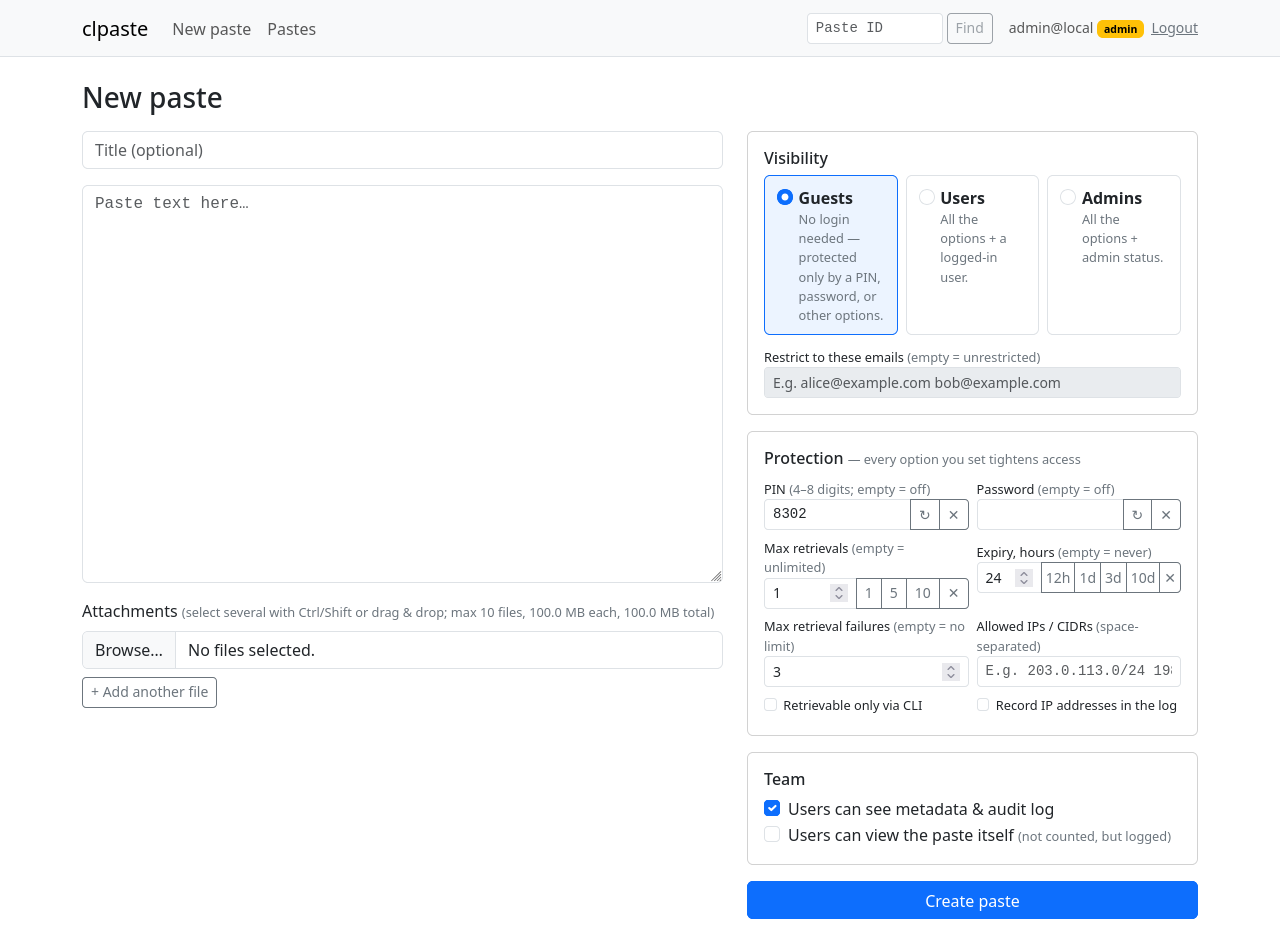
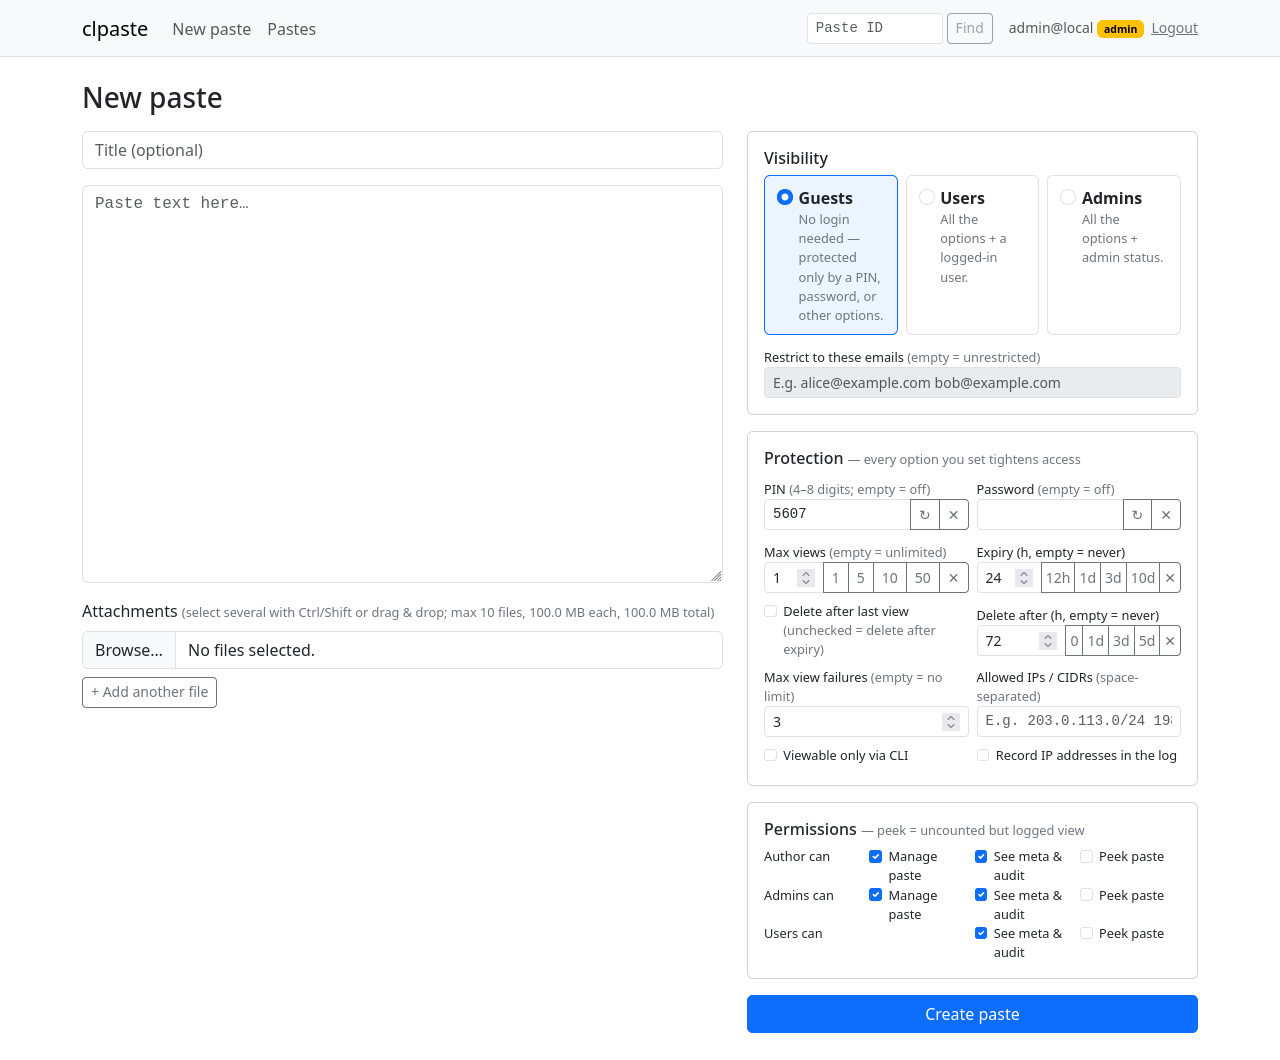
Improvements

diff --git a/templates/index.html b/templates/index.html
@@ -50,7 +50,7 @@
         </div>
       </div>
       <div class="mt-2" id="emails_row">
-        <label class="form-label form-text-sm mb-0" for="emails">Restrict to these emails <span class="text-secondary">(empty = unrestricted)</span></label>
+        <label class="form-label form-text-sm mb-0" for="emails">Restrict to these emails <span class="text-secondary">(empty = unrestricted{% if email_domain %}, no @ = @{{ email_domain }}{% endif %})</span></label>
         <input class="form-control form-control-sm" name="emails" id="emails" value="{{ f.emails }}" placeholder="E.g. alice@example.com bob@example.com">
       </div>
     </div></div>
@@ -151,35 +151,44 @@
       <h2 class="h6">Permissions <span class="text-secondary form-text-sm fw-normal">— peek = uncounted but logged view</span></h2>
       <div class="row g-1 form-text-sm">
         <div class="col-3">Author can</div>
-        <div class="col-5"><div class="form-check mb-0">
-          <input class="form-check-input" type="checkbox" name="author_meta" id="author_meta" {% if f.author_meta %}checked{% endif %}>
-          <label class="form-check-label" for="author_meta" title="Metadata and audit log on the paste detail page">view metadata</label>
+        <div class="col-3"><div class="form-check mb-0">
+          <input class="form-check-input" type="checkbox" name="author_manage" id="author_manage" {% if f.author_manage %}checked{% endif %}>
+          <label class="form-check-label" for="author_manage" title="Expire and delete the paste">Manage paste</label>
         </div></div>
-        <div class="col-4"><div class="form-check mb-0">
+        <div class="col-3"><div class="form-check mb-0">
+          <input class="form-check-input" type="checkbox" name="author_meta" id="author_meta" {% if f.author_meta %}checked{% endif %}>
+          <label class="form-check-label" for="author_meta" title="Metadata and audit log on the paste detail page">See meta &amp; audit</label>
+        </div></div>
+        <div class="col-3"><div class="form-check mb-0">
           <input class="form-check-input" type="checkbox" name="author_view" id="author_view" {% if f.author_view %}checked{% endif %}>
-          <label class="form-check-label" for="author_view">peek paste</label>
+          <label class="form-check-label" for="author_view">Peek paste</label>
         </div></div>
       </div>
       <div class="row g-1 form-text-sm">
         <div class="col-3">Admins can</div>
-        <div class="col-5"><div class="form-check mb-0">
-          <input class="form-check-input" type="checkbox" name="admin_meta" id="admin_meta" {% if f.admin_meta %}checked{% endif %}>
-          <label class="form-check-label" for="admin_meta" title="Metadata and audit log on the paste detail page">view metadata</label>
+        <div class="col-3"><div class="form-check mb-0">
+          <input class="form-check-input" type="checkbox" name="admin_manage" id="admin_manage" {% if f.admin_manage %}checked{% endif %}>
+          <label class="form-check-label" for="admin_manage" title="Expire and delete the paste">Manage paste</label>
         </div></div>
-        <div class="col-4"><div class="form-check mb-0">
+        <div class="col-3"><div class="form-check mb-0">
+          <input class="form-check-input" type="checkbox" name="admin_meta" id="admin_meta" {% if f.admin_meta %}checked{% endif %}>
+          <label class="form-check-label" for="admin_meta" title="Metadata and audit log on the paste detail page">See meta &amp; audit</label>
+        </div></div>
+        <div class="col-3"><div class="form-check mb-0">
           <input class="form-check-input" type="checkbox" name="admin_view" id="admin_view" {% if f.admin_view %}checked{% endif %}>
-          <label class="form-check-label" for="admin_view">peek paste</label>
+          <label class="form-check-label" for="admin_view">Peek paste</label>
         </div></div>
       </div>
       <div class="row g-1 form-text-sm">
         <div class="col-3">Users can</div>
-        <div class="col-5"><div class="form-check mb-0">
+        <div class="col-3"></div>
+        <div class="col-3"><div class="form-check mb-0">
           <input class="form-check-input" type="checkbox" name="team_meta" id="team_meta" {% if f.team_meta %}checked{% endif %}>
-          <label class="form-check-label" for="team_meta" title="Metadata and audit log on the paste detail page">view metadata</label>
+          <label class="form-check-label" for="team_meta" title="Metadata and audit log on the paste detail page">See meta &amp; audit</label>
         </div></div>
-        <div class="col-4"><div class="form-check mb-0">
+        <div class="col-3"><div class="form-check mb-0">
           <input class="form-check-input" type="checkbox" name="team_view" id="team_view" {% if f.team_view %}checked{% endif %}>
-          <label class="form-check-label" for="team_view">peek paste</label>
+          <label class="form-check-label" for="team_view">Peek paste</label>
         </div></div>
       </div>
     </div></div>

diff --git a/templates/detail.html b/templates/detail.html
@@ -10,6 +10,9 @@
     {% if can_delete %}<form class="d-inline" method="post" action="{{ delete_href }}" onsubmit="return confirm('Delete this paste permanently, including its audit log?')"><button class="btn btn-sm btn-danger">Delete</button></form>{% endif %}
   </div>
 </div>
+{% if denied %}
+<div class="alert alert-warning mt-3">Seeing this paste's metadata and audit log is not possible: the paste does not grant that to you.{% if can_view or can_expire or can_delete %} The buttons above show what you can do with it.{% endif %}</div>
+{% else %}
 <div class="row g-3">
   <div class="col-lg-5">
     <div class="card"><div class="card-header ps-1">Settings</div>
@@ -31,4 +34,5 @@
     </table></div></div>
   </div>
 </div>
+{% endif %}
 {% endblock %}

diff --git a/templates/layout.html b/templates/layout.html
@@ -49,6 +49,6 @@
     function chk(){ b.disabled = i.value.replace(/[^0-9]/g,'').length !== {{ id_digits }}; }
     i.addEventListener('input', chk); chk(); })();
 </script>
-<footer class="container text-secondary small mb-4">{{ site_name }}{% if show_version %} · clpaste {{ version }}{% endif %}</footer>
+<footer class="container text-secondary small mb-4">{{ site_name }}{% if show_version %} · <span title="build {{ git_sha }}">clpaste {{ version }}</span>{% endif %}</footer>
 </body>
 </html>

diff --git a/README.md b/README.md
@@ -21,10 +21,12 @@ admins) and **guests** (not signed in).
 * **Per-paste protection:** PIN (default on), password, max views,
   expiry time, guest/user/admin visibility with an optional email
   restriction, IP/CIDR allowlist, CLI-only, expiry after N failed attempts.
-* **Per-role permissions:** the author decides, per paste, whether the
-  author, admins and other signed-in users may see its metadata & audit
-  log, and/or peek at the content without consuming a view (logged).
-  No built-in exemptions — even admins only see what the paste grants.
+* **Per-role permissions:** the author decides, per paste, what the
+  author, admins and other signed-in users may do with it — manage it
+  (expire/delete; author and admins only), see its metadata & audit log,
+  and/or peek at the content without consuming a view (logged). No
+  built-in exemptions — even admins only get what the paste grants
+  (since 0.3.0; before that the author and admins were always exempt).
 * **Audit log** of who viewed what and when (identity from OIDC when
   available; IPs only if the author opted in). The log outlives the paste
   (until deletion, if the paste has it set).
@@ -33,8 +35,8 @@ admins) and **guests** (not signed in).
 * **Deletion** (optional): unlike expiry, removes every trace — record,
   metadata and audit log — N hours after expiry, or, anchored to views
   instead, N hours after the last counted view (0 = the moment it is
-  viewed). The author or an admin can also delete a paste at any time
-  from its settings + log page.
+  viewed). Whoever holds the paste's manage permission can also expire
+  or delete it at any time from its settings + log page.
 * **Pastes page:** users see their own and shared pastes with protection
   badges; admins see every paste, get Peek as admin / View / Expire /
   Delete on the per-paste settings + log page. The navbar ID box says
@@ -167,6 +169,8 @@ Notable ones:
   on OIDC login (any rule suffices). With `admin_domains` set, every other
   signed-in user is a *plain user*: they may create pastes and view them
   like any guest, but the permission options and the `/pastes` pages are gone.
+  The first admin domain also completes bare account names in email
+  restrictions ("bob" means bob@your-first-domain).
 * `default_max_views_public` / `_private` (`1` / unlimited),
   `default_ttl_hours` (`24`), `default_pin` (on), `default_max_failures`
   (`3`) — what the form and CLI start with.
@@ -199,17 +203,19 @@ Notable ones:
   (per client IP per minute, default 10; admins are exempt), so the ID
   space cannot be scanned.
 * **Peeks** (`/pastes/ID/view`, `/pastes/ID/admin-view`) show the content
-  without counting a view; they are logged. Who may open a paste's
-  settings + log page and who may peek is set per paste on the
-  Permissions card, separately for the author, for admins and for users
-  (other signed-in people). Defaults: author and admins may view
-  metadata, nobody may peek. There are no built-in exemptions: a paste
-  that grants admins nothing shows admins nothing (they still see it in
-  the `/pastes` list and may expire or delete it). With `admin_domains`
-  set, plain users only create and view; the permission options are
-  admin-only. (Audit rows written before 0.2.0 use the old action names
-  `team_meta`/`team_view` and creator `anonymous` instead of
-  `user_meta`/`user_view` and `guest`.)
+  without counting a view; they are logged. What a role may do — manage
+  the paste (expire/delete), open its settings + log page, peek — is set
+  per paste on the Permissions card, separately for the author, for
+  admins and for users (other signed-in people; users cannot manage).
+  Defaults: author and admins may manage and see meta & audit, nobody
+  may peek. There are no built-in exemptions: a paste that grants admins
+  nothing shows admins nothing beyond its `/pastes` list row. Someone
+  holding manage but not meta gets a friendly page with just the
+  Expire/Delete buttons. With `admin_domains` set, plain users only
+  create and view; the permission options are admin-only. (Audit rows
+  written before 0.2.0 use the old action names `team_meta`/`team_view`
+  and creator `anonymous` instead of `user_meta`/`user_view` and
+  `guest`.)
 * **Expiry** deletes the body, the wrapped key and the PIN/password
   secrets; the descriptive settings, counters and the audit log survive
   (until deletion), so the settings + log page reads the same for expired
@@ -230,6 +236,9 @@ Notable ones:
   TLS, so its `iss`/`aud`/`exp`/`nonce` are validated and identity is
   confirmed via `userinfo` (OIDC Core §3.1.3.7 permits skipping signature
   verification in this case).
+* **`/healthz`** answers `ok clpaste <version> <git-sha>`, so you can
+  always check what a running instance was built from (the footer's
+  version number carries the same sha in its tooltip).
 * **Limits of "CLI-only"**: it is enforced by requiring the
   `X-Clpaste-Client` header, which any HTTP client can send. Treat it as a
   convenience to keep casual browser access out, not as a security boundary.
@@ -260,7 +269,7 @@ AGPL-3.0 — see [LICENSE](LICENSE).
 ## Reference: `clpaste --help`
 
 ```
-clpaste 0.2.0 — encrypted paste service
+clpaste 0.3.0 — encrypted paste service
 
 Usage: clpaste <command> [options]
 
@@ -360,8 +369,10 @@ Text is read from stdin unless --text is given.
     --team-view                      Users may peek the content (uncounted, logged)
     --no-author-meta                 Author may not see metadata & audit log (default: may)
     --author-view                    Author may peek the content (default: not)
+    --no-author-manage               Author may not expire/delete the paste (default: may)
     --no-admin-meta                  Admins may not see metadata & audit log (default: may)
     --admin-view                     Admins may peek the content (default: not)
+    --no-admin-manage                Admins may not expire/delete the paste (default: may)
     --log-ips                        Record viewer IPs in the audit log
     --json                           Machine-readable output
     -h, --help                       Help
